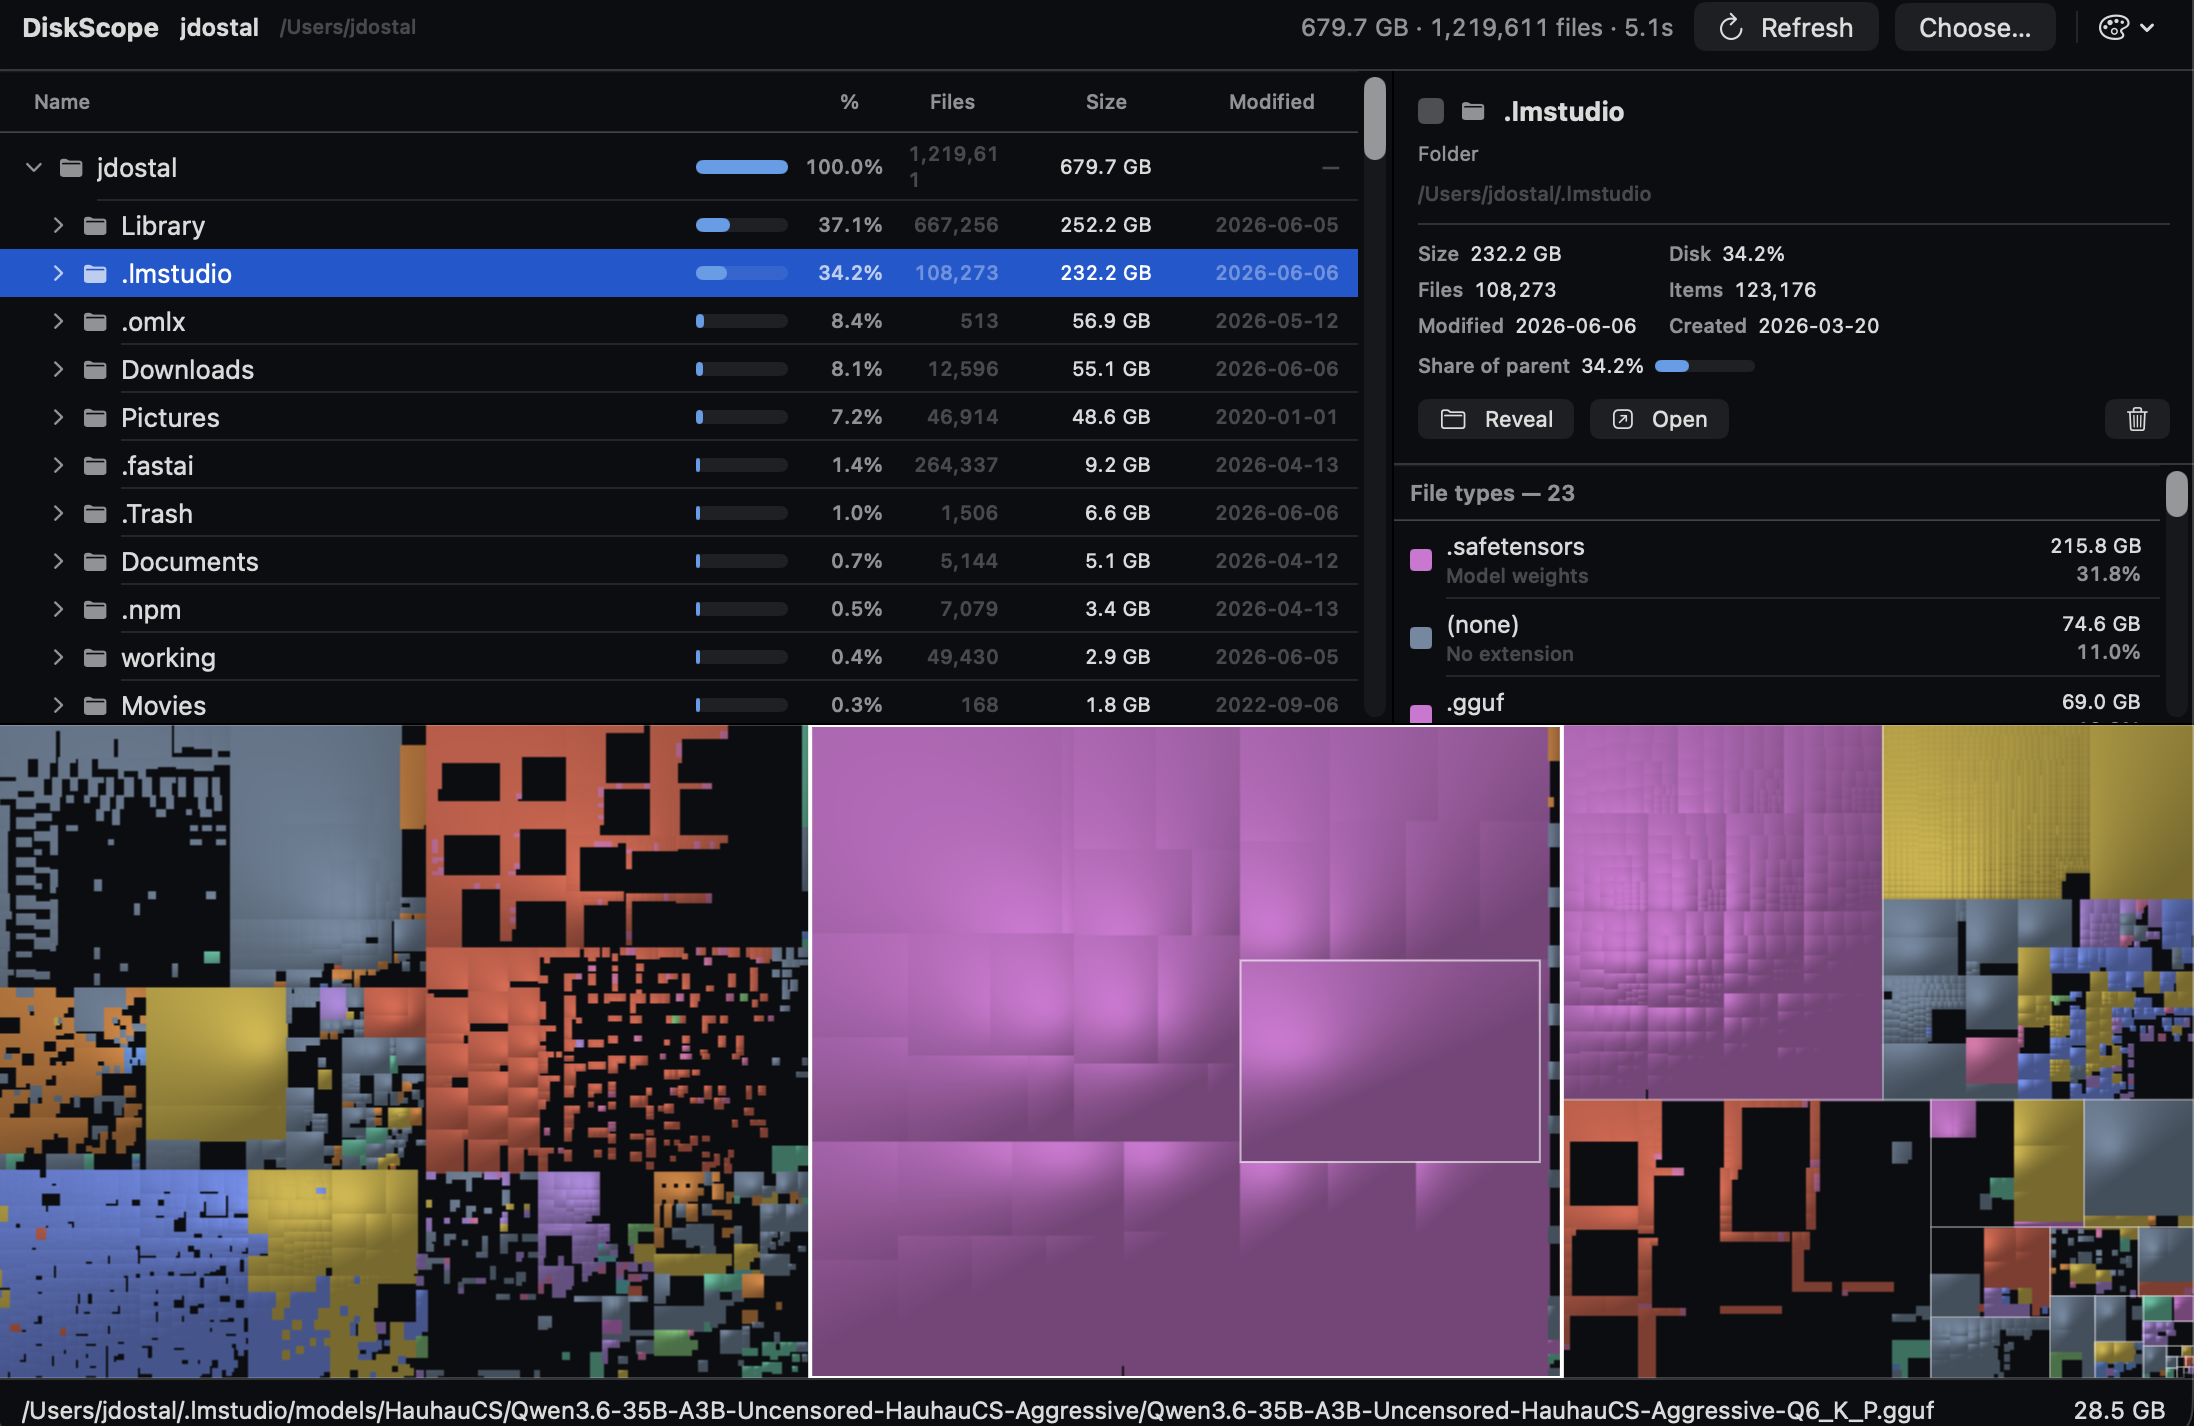
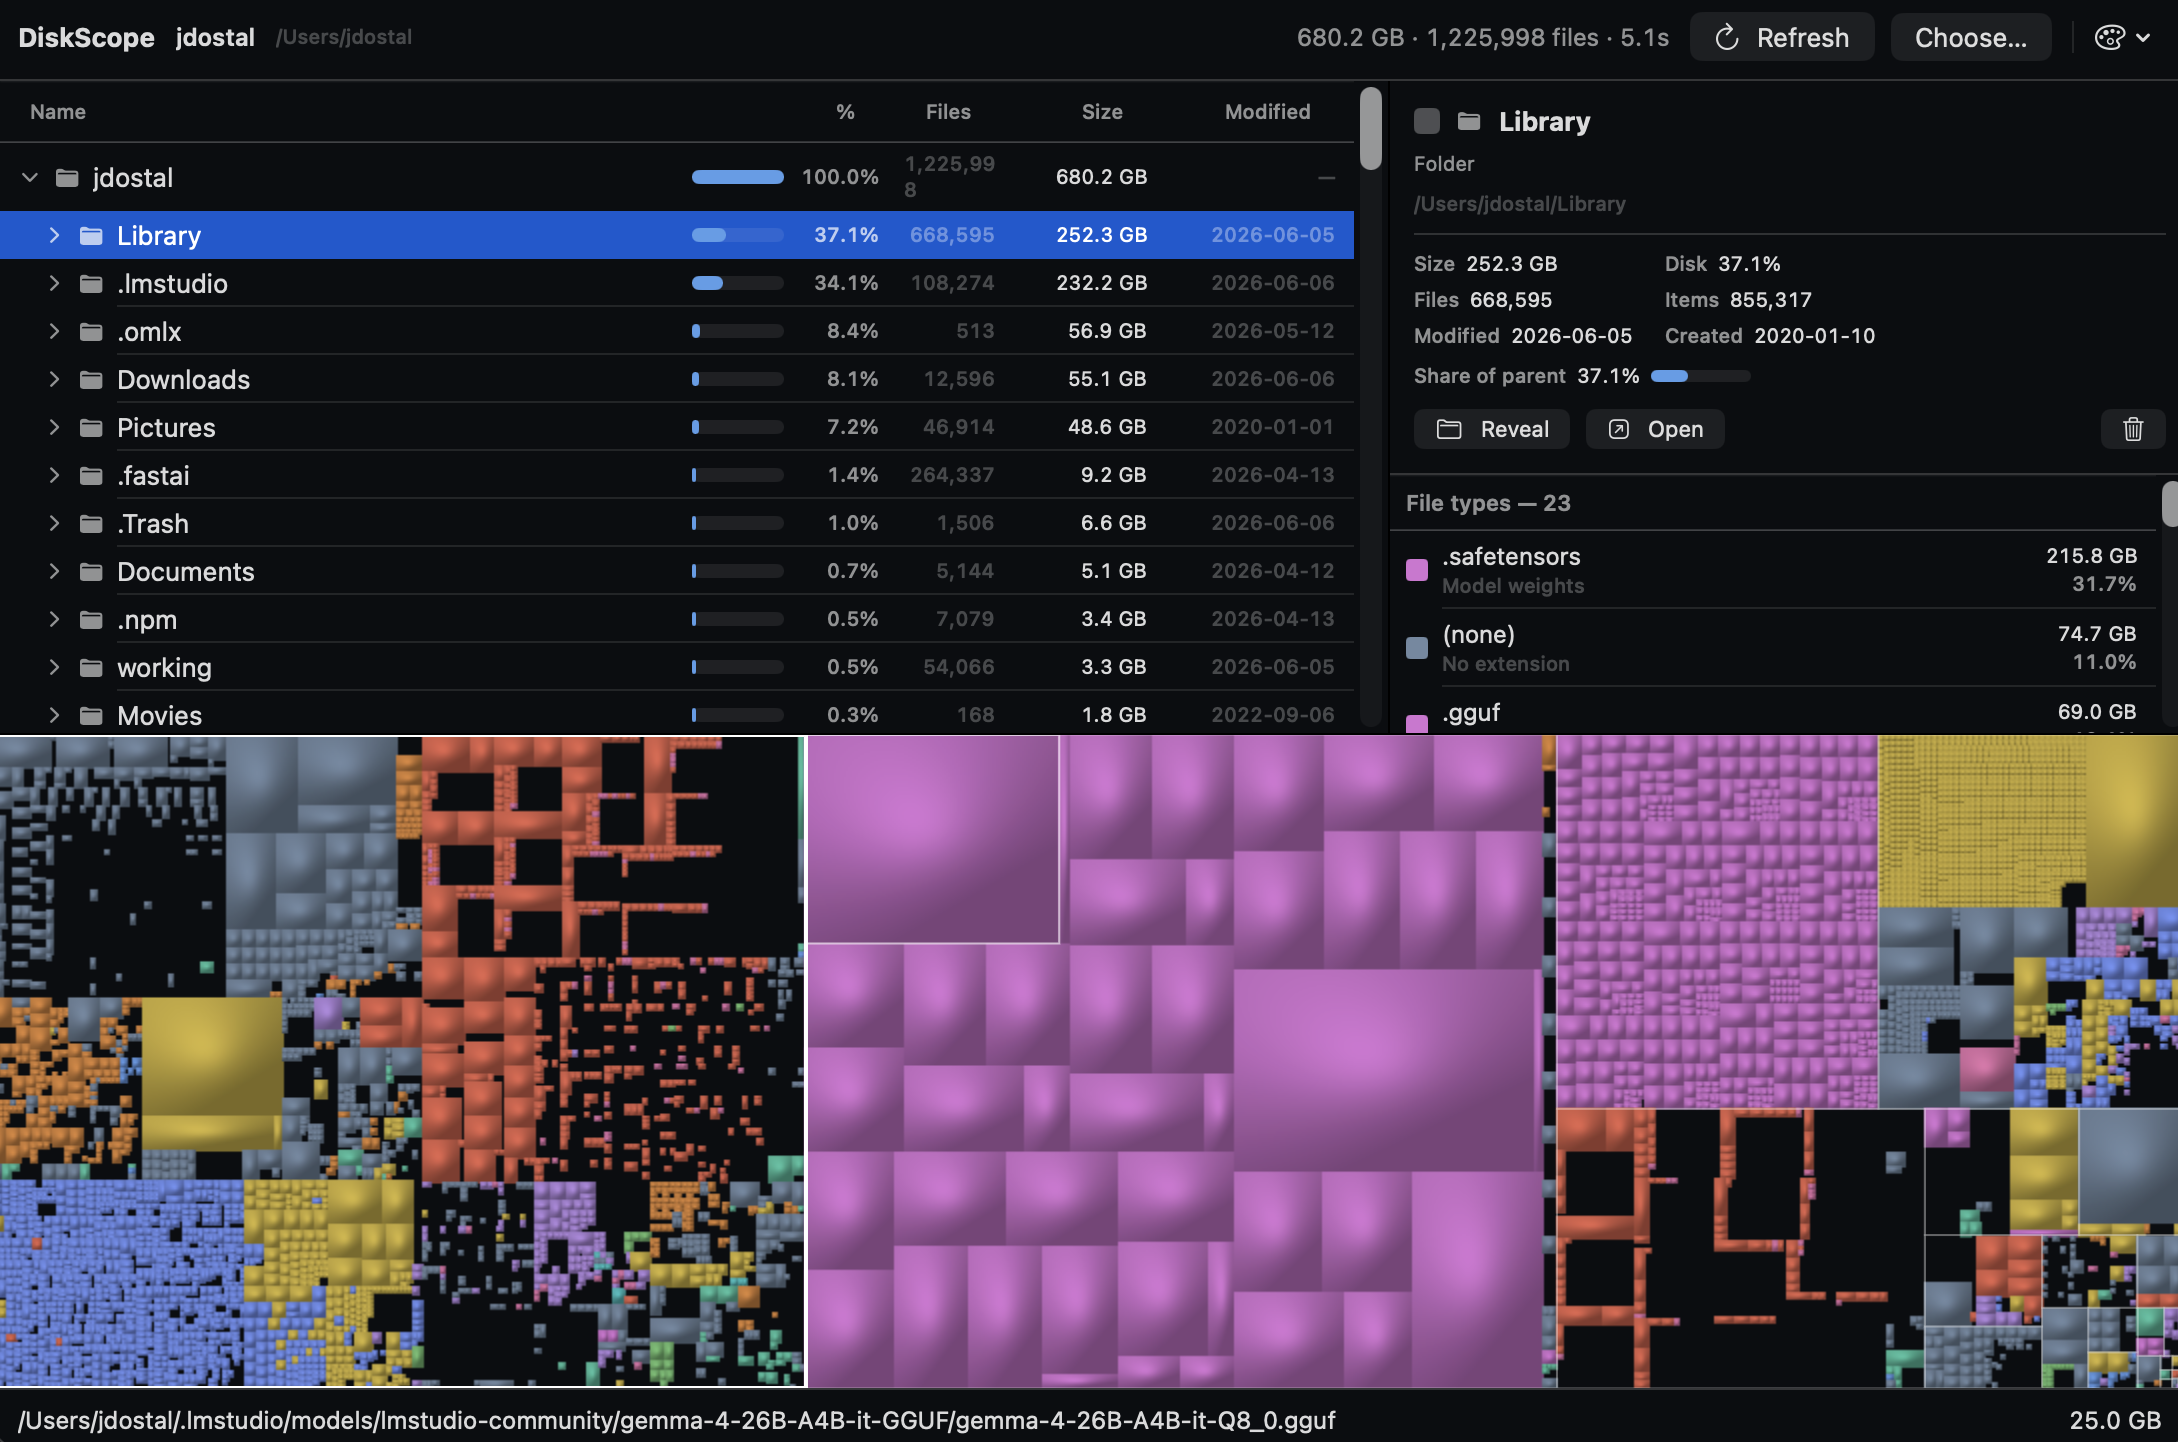
1.0.2 — consistent per-leaf cushions, TUI stats bar + trash key
Treemap: render a fresh cushion per leaf in the tile's own coordinates so every
square is a clean, centered pillow of identical shape (the KDirStat/QDirStat
look), instead of inheriting parent ridges (nested van Wijk) which drifted each
highlight off-center. No specular, no container fill — consistency, not effects.

TUI: a stats bar for the selected entry (size, % of folder, file/item counts,
modified) and a `t` move-to-Trash key with a y/N confirm.

README refreshed (lean rewrite + new screenshots). Bumped to 1.0.2.

Changed region(s): [[0.0, 0.0, 1.0, 1.0]]

diff --git a/Sources/diskscope-scan/TUI.swift b/Sources/diskscope-scan/TUI.swift
@@ -54,7 +54,7 @@ private func tuiSize() -> (cols: Int, rows: Int) {
 
 // MARK: - Input
 
-enum TUIKey: Equatable { case up, down, left, right, top, bottom, enter, back, refresh, quit, other }
+enum TUIKey: Equatable { case up, down, left, right, top, bottom, enter, back, refresh, trash, quit, other }
 
 /// Pure byte-sequence → key decode (escape sequences + vim/letter keys). Kept free of I/O
 /// so the mapping is obvious and could be unit-tested in isolation.
@@ -82,6 +82,7 @@ func decodeKey(_ b: [UInt8]) -> TUIKey {
     case 0x67:              return .top     // g
     case 0x47:              return .bottom  // G
     case 0x72:              return .refresh // r
+    case 0x74, 0x54:        return .trash   // t / T
     default:                return .other
     }
 }
@@ -106,6 +107,17 @@ private func tuiHuman(_ bytes: UInt64) -> String {
 private func rgb(_ c: (r: Double, g: Double, b: Double)) -> (Int, Int, Int) {
     func u(_ v: Double) -> Int { max(0, min(255, Int((v * 255).rounded()))) }
     return (u(c.r), u(c.g), u(c.b))
+}
+
+private let tuiDateFormatter: DateFormatter = {
+    let f = DateFormatter()
+    f.locale = Locale(identifier: "en_US_POSIX")
+    f.dateFormat = "yyyy-MM-dd"
+    return f
+}()
+private func tuiDate(_ epoch: Int64) -> String {
+    guard epoch > 0 else { return "—" }
+    return tuiDateFormatter.string(from: Date(timeIntervalSince1970: TimeInterval(epoch)))
 }
 
 /// The treemap of `root` as half-block text rows (two vertical pixels per character cell).
@@ -145,6 +157,7 @@ final class TUI {
     private var dirty = true
     private var watcher: FSEventsWatcher?
     private let stateLock = NSLock()    // guards index/kids vs the FSEvents queue
+    private var confirmMessage: String? // when set, shown in the footer (e.g. trash confirm)
 
     init(index: FileIndex, rootPath: String) {
         self.index = index
@@ -170,9 +183,10 @@ final class TUI {
             if tuiResized != 0 { tuiResized = 0; dirty = true }
             if dirty { render(); dirty = false }
             guard let key = nextKey() else { continue }      // EINTR → re-render
+            if key == .quit { break loop }
+            if key == .trash { handleTrash(); dirty = true; continue } // modal: handles its own IO
             stateLock.lock()
             switch key {
-            case .quit: stateLock.unlock(); break loop
             case .up:    if sel > 0 { sel -= 1 }
             case .down:  if sel < kids.count - 1 { sel += 1 }
             case .top:    sel = 0
@@ -180,10 +194,52 @@ final class TUI {
             case .enter, .right: descend()
             case .left, .back:   ascend()
             case .refresh: reconcileVisible()
-            case .other: break
+            case .quit, .trash, .other: break
             }
             dirty = true
             stateLock.unlock()
+        }
+    }
+
+    /// Move the selected entry to the Trash, with a y/N confirm. The modal read happens outside
+    /// the state lock (so a background FSEvents reconcile can't block on the prompt); the index
+    /// mutation re-acquires it.
+    private func handleTrash() {
+        stateLock.lock()
+        guard sel < kids.count else { stateLock.unlock(); return }
+        let node = kids[sel]
+        let name = index.nodes[node].name
+        let path = index.path(of: node)
+        let parentPath = index.path(of: cur)
+        stateLock.unlock()
+
+        confirmMessage = "Move “\(name)” to Trash?   y = yes · any other key = cancel"
+        render()
+        guard readYes() else { confirmMessage = nil; return }
+        confirmMessage = nil
+
+        do {
+            try FileManager.default.trashItem(at: URL(fileURLWithPath: path), resultingItemURL: nil)
+        } catch {
+            confirmMessage = "Trash failed: \(error.localizedDescription)"
+            render(); usleep(1_200_000); confirmMessage = nil
+            return
+        }
+        stateLock.lock()
+        index.reconcile(directoryPath: parentPath)
+        index.aggregate()
+        refreshKids()
+        stateLock.unlock()
+    }
+
+    /// Blocking single-byte read for a y/N confirm. Returns true only on 'y'/'Y'.
+    private func readYes() -> Bool {
+        var b = [UInt8](repeating: 0, count: 1)
+        while true {
+            let n = read(STDIN_FILENO, &b, 1)
+            if n == 1 { return b[0] == 0x79 || b[0] == 0x59 }
+            if n == 0 { return false }       // EOF
+            // n < 0 → EINTR (e.g. SIGWINCH); retry the read
         }
     }
 
@@ -238,11 +294,11 @@ final class TUI {
 
     private func render() {
         let (cols, rows) = tuiSize()
-        guard cols > 20, rows > 4 else {
+        guard cols > 20, rows > 5 else {
             _ = "\u{1b}[H\u{1b}[2JTerminal too small".withCString { write(STDOUT_FILENO, $0, strlen($0)) }
             return
         }
-        let bodyRows = rows - 2                 // minus header + footer
+        let bodyRows = rows - 3                 // minus header + stats line + footer
         let leftW = max(24, min(48, cols * 4 / 10))
         let rightW = cols - leftW - 1           // 1 col separator
 
@@ -276,11 +332,45 @@ final class TUI {
             out += left + "\u{1b}[0m│" + right + "\u{1b}[0m\u{1b}[K\r\n"
         }
 
-        // Footer: key hints.
-        let hint = " ↑↓/jk move · → enter · ← up · g/G ends · r refresh · q quit "
-        out += "\u{1b}[7m" + pad(hint, cols) + "\u{1b}[0m\u{1b}[K"
+        // Stats line: the selected entry's details (the "little window" of stats).
+        out += statsLine(width: cols) + "\u{1b}[K\r\n"
+
+        // Footer: a trash/other confirm prompt when pending, else key hints.
+        if let cm = confirmMessage {
+            out += "\u{1b}[48;2;130;95;30m\u{1b}[1m" + pad(" " + cm, cols) + "\u{1b}[0m\u{1b}[K"
+        } else {
+            let hint = " ↑↓/jk move · → enter · ← up · g/G ends · t trash · r refresh · q quit "
+            out += "\u{1b}[7m" + pad(hint, cols) + "\u{1b}[0m\u{1b}[K"
+        }
         out += "\u{1b}[J" // clear anything below
         _ = out.withCString { write(STDOUT_FILENO, $0, strlen($0)) }
+    }
+
+    /// The selected entry's stats, as a full-width tinted bar: swatch · name · size · share of
+    /// the current folder · (files/items for dirs) · modified date.
+    private func statsLine(width: Int) -> String {
+        let bg = "\u{1b}[48;2;28;32;40m"
+        guard sel < kids.count else {
+            return bg + pad("  (empty folder)", width) + "\u{1b}[0m"
+        }
+        let n = index.nodes[kids[sel]]
+        let isDir = n.isDir
+        let size = isDir ? n.totalSize : n.ownSize
+        let pct = Double(size) / Double(max(1, sizeOf(cur))) * 100
+        let (sr, sg, sb) = isDir ? (150, 150, 160) : rgb(FilePalette.srgb(forExt: cliExt(n.name)))
+
+        var suffix = "  \(tuiHuman(size)) · \(String(format: "%.1f", pct))%"
+        if isDir { suffix += " · \(n.subtreeFiles) files · \(n.subtreeItems) items" }
+        suffix += "  \(tuiDate(n.modTime)) "
+
+        let nameAvail = max(4, width - suffix.count - 3) // " " + glyph + " "
+        let name = ellipsizeBack(n.name + (isDir ? "/" : ""), nameAvail)
+        // Glyph resets only the FG (\e[39m) so the bar's background survives to the line end.
+        let glyph = "\u{1b}[38;2;\(sr);\(sg);\(sb)m\(isDir ? "▸" : "·")\u{1b}[39m"
+        let left = " \(glyph) \(name)"
+        let leftVis = visibleWidth(left)
+        let padCount = max(0, width - suffix.count - leftVis)
+        return bg + left + String(repeating: " ", count: padCount) + suffix + "\u{1b}[0m"
     }
 
     /// One left-pane row: color swatch · name · size · share-of-folder bar.

diff --git a/Sources/DiskScopeCore/Treemap.swift b/Sources/DiskScopeCore/Treemap.swift
@@ -94,6 +94,7 @@ public enum Treemap {
         background: (r: Double, g: Double, b: Double) = (0.043, 0.051, 0.063),
         light: (x: Double, y: Double, z: Double) = (-0.32, -0.45, 0.83),
         ambient: Double = 0.42,
+        cushionHeight: Double = 0.6,
         colorFor: (Int) -> (r: Double, g: Double, b: Double)
     ) -> [UInt8] {
         var buf = [UInt8](repeating: 255, count: max(0, width * height * 4))
@@ -110,20 +111,30 @@ public enum Treemap {
 
         for t in tiles where !t.isDir {
             let (cr, cg, cb) = colorFor(t.node)
-            let c = t.cushion
-            let x0 = max(0, Int(t.rect.x.rounded(.down)))
-            let y0 = max(0, Int(t.rect.y.rounded(.down)))
-            let x1 = min(width, Int((t.rect.x + t.rect.w).rounded(.up)))
-            let y1 = min(height, Int((t.rect.y + t.rect.h).rounded(.up)))
-            if x1 <= x0 || y1 <= y0 { continue }
+            let rx = t.rect.x, ry = t.rect.y, rw = t.rect.w, rh = t.rect.h
+            let x0 = max(0, Int(rx.rounded(.down)))
+            let y0 = max(0, Int(ry.rounded(.down)))
+            let x1 = min(width, Int((rx + rw).rounded(.up)))
+            let y1 = min(height, Int((ry + rh).rounded(.up)))
+            if x1 <= x0 || y1 <= y0 || rw <= 0 || rh <= 0 { continue }
+
+            // A FRESH cushion per leaf, in the tile's own coordinates — a clean parabolic pillow
+            // that peaks dead-center of every square, identical in shape from tile to tile (the
+            // KDirStat/QDirStat look). The old code reused the accumulated van Wijk surface, so
+            // each leaf inherited its parents' ridges and its highlight drifted off-center —
+            // that's what read as inconsistent, "droopy" bubbles.
+            let s1x = 4 * cushionHeight * (2 * rx + rw) / rw
+            let s2x = -4 * cushionHeight / rw
+            let s1y = 4 * cushionHeight * (2 * ry + rh) / rh
+            let s2y = -4 * cushionHeight / rh
 
             for py in y0..<y1 {
                 let fy = Double(py) + 0.5
-                let ny = -(2 * c.s2y * fy + c.s1y)
+                let ny = -(2 * s2y * fy + s1y)
                 let rowBase = py * width
                 for px in x0..<x1 {
                     let fx = Double(px) + 0.5
-                    let nx = -(2 * c.s2x * fx + c.s1x)
+                    let nx = -(2 * s2x * fx + s1x)
                     let nlen = (nx * nx + ny * ny + 1).squareRoot()
                     var cosA = (nx * lx + ny * ly + lz) / nlen
                     if cosA < 0 { cosA = 0 }

diff --git a/Sources/DiskScopeApp/TreemapModel.swift b/Sources/DiskScopeApp/TreemapModel.swift
@@ -219,6 +219,7 @@ final class TreemapModel: ObservableObject {
         return String(name[name.index(after: dot)...]).lowercased()
     }
 
+
     /// Path + size for a node — used by hover readout.
     func info(for node: Int) -> (path: String, size: UInt64)? {
         guard let index, node >= 0, node < index.nodes.count else { return nil }

diff --git a/Sources/DiskScopeCore/FileIndex.swift b/Sources/DiskScopeCore/FileIndex.swift
@@ -121,6 +121,7 @@ public final class FileIndex: ScanSink {
         }
     }
 
+
     /// Immediate (live) children of a node, as index values (for treemap drill-down).
     public func children(of index: Int) -> [Int] {
         var out: [Int] = []

diff --git a/README.md b/README.md
@@ -9,15 +9,8 @@ DiskScope renders disk usage as a *squarified treemap*: every file becomes a rec
 by the bytes it eats, packed to stay near-square and readable, and each rectangle is drawn as
 a 3D "cushion" with per-pixel Phong lighting written straight into a raw RGBA bitmap (no
 system 2D-drawing APIs), then tinted by file type through a perceptually-uniform **OKLCH**
-color palette.
-
-## Why
-
-DaisyDisk and GrandPerspective exist, but nothing on the Mac combines **native SwiftUI**,
-**WinDirStat-style information density** (tree + columns + legend + a treemap), and a
-**scary-fast whole-drive scan**. The Windows tools (WizTree/Everything) are fast because they
-read the NTFS Master File Table directly — and macOS/APFS has no MFT. So the fast scan *is*
-the engineering: DiskScope builds it with `getattrlistbulk(2)` and a parallel directory walk.
+color palette. The scan itself is a parallel `getattrlistbulk(2)` walk, so a whole disk
+indexes in seconds.
 
 ## Features
 
@@ -27,12 +20,12 @@ the engineering: DiskScope builds it with `getattrlistbulk(2)` and a parallel di
   columns; click-to-reveal in the treemap and back.
 - **File-type legend** — per-extension breakdown; click a type to isolate its tiles on the map.
 - **Selection inspector** — size, share of disk/parent, file & item counts, modified/created.
-- **Themes** — multiple curated OKLCH palettes (Spectrum, Dracula, Catppuccin, Nord,
-  Solarized, Synthwave, Gruvbox, Cairn) plus a **Custom** theme with live sliders.
+- **Themes** — curated OKLCH palettes (Spectrum, Dracula, Catppuccin, Nord, Solarized,
+  Synthwave, Gruvbox, Cairn) plus a **Custom** theme with live sliders.
 - **Real file actions** — Reveal in Finder, Open, Move to Trash (the index updates in place).
 - **Full Disk Access** onboarding so protected folders get counted.
-- **Other front-ends on the same engine** — an interactive **TUI** (`--tui`), plus SVG/PNG and
-  truecolor-terminal treemap renderers, and a benchmarking CLI.
+- **A full terminal UI** — the same engine, rendered as a navigable cushioned treemap right in
+  your terminal (plus SVG/PNG and benchmark CLI modes).
 
 ## Install
 
@@ -42,79 +35,42 @@ the engineering: DiskScope builds it with `getattrlistbulk(2)` and a parallel di
 brew install --cask jasondostal/tap/diskscope
 ```
 
-**Or grab the DMG** from the [latest release](https://github.com/jasondostal/diskscope/releases/latest). Direct downloads aren't notarized yet, so macOS will flag it as from an unidentified developer — right-click the app → **Open** the first time (or **Open Anyway** in System Settings → Privacy & Security). Homebrew handles this for you.
+**Or grab the DMG** from the [latest release](https://github.com/jasondostal/diskscope/releases/latest).
+Direct downloads are ad-hoc signed (not notarized), so macOS will flag it as from an
+unidentified developer — right-click the app → **Open** the first time (or **Open Anyway** in
+System Settings → Privacy & Security). Homebrew installs handle this for you.
 
-Or **build from source** — see [Build & run](#build--run).
+Requires **macOS 14+**. It is intentionally not sandboxed — a whole-disk indexer needs to read
+the whole disk.
 
-## The scan
+## Terminal UI
 
-Measured on an M5 Pro (Apple Silicon), Data volume, ~1.71M entries, warm cache:
+`diskscope --tui <path>` is a fully interactive treemap in your terminal — same scan, same
+cushions, drilling around with the keyboard. Needs a **truecolor** terminal (iTerm2, Ghostty,
+kitty, WezTerm).
 
-| Scanner | Time | Rate |
-|---|--:|--:|
-| serial | 20.9s | 82k/s |
-| parallel ×8 | **4.2s** | **410k/s** |
+![DiskScope TUI](tui.png)
 
-A full *sized* index of a whole disk lands in well under ten seconds. Key findings (details in
-[`docs/research/`](docs/research/)):
+```sh
+diskscope --tui ~          # interactive terminal UI
+diskscope --treemap <path> # render a treemap SVG
+diskscope --term <path>    # static cushioned treemap, printed once
+diskscope <path> [workers] # scan benchmark
+```
 
-- The scan is **kernel/syscall-bound**, not language-bound — stripping ~1.5M `String`
-  allocations moved the time ~2%, so a C/Rust/Go rewrite would buy nothing per-core; parallelism
-  is the lever.
-- APFS metadata reads **scale across cores**; workers are capped at the performance-core count
-  (over-subscribing past the P-cores drags the whole parallel section down on Apple Silicon).
-- APFS **firmlinks** expose the same directory under two paths (`/Users` *and*
-  `/System/Volumes/Data/Users`); directories are de-duplicated by `(device, inode)`.
-- Reading raw APFS metadata off the block device (the WizTree trick) was evaluated and
-  **rejected** for a consumer app — see [`docs/research/raw-apfs-parsing.md`](docs/research/raw-apfs-parsing.md).
+(Installed via Homebrew the CLI is on your PATH as `diskscope`; from source the product is
+`diskscope-scan`.)
 
-## Build & run
+## Build from source
 
 Requires the Swift toolchain (full Xcode for the GUI; Command Line Tools is enough for the CLI).
 
 ```sh
-# GUI app
 swift build --product DiskScopeApp && .build/debug/DiskScopeApp   # or: make run
-
-# package a real .app / DMG (see Packaging/README.md)
-make app        # dist/DiskScope.app
+make app        # build dist/DiskScope.app
 make dmg        # + a distributable DMG
-
-# tests
 swift test
 ```
-
-### CLI / TUI
-
-The CLI ships inside the app bundle; **installed via Homebrew it's on your PATH as `diskscope`**:
-
-```sh
-diskscope --tui ~          # interactive terminal UI (needs a truecolor terminal)
-diskscope --treemap <path> # render a treemap SVG
-diskscope --term <path>    # static cushioned treemap in the terminal
-diskscope <path> [workers] # scan benchmark
-```
-
-From source the product is `diskscope-scan`:
-
-```sh
-swift build -c release --product diskscope-scan
-.build/release/diskscope-scan --tui <path>
-```
-
-## Architecture
-
-- **`Sources/DiskScopeCore/`** — the engine (no UI, fully tested): the `getattrlistbulk`
-  scanner, a flat-arena file index with live FSEvents reconcile, the squarified treemap layout
-  + cushion renderer, and the OKLCH `FilePalette`. Everything else is a client of this.
-- **`Sources/DiskScopeApp/`** — the SwiftUI app.
-- **`Sources/diskscope-scan/`** — the CLI + TUI.
-- **`Tests/DiskScopeCoreTests/`** — the engine suite.
-
-## Requirements
-
-macOS 14+. Distributed as a Developer ID–signed, notarized `.app` (not sandboxed — a
-whole-disk indexer needs to read the whole disk).
 
 ## License
 